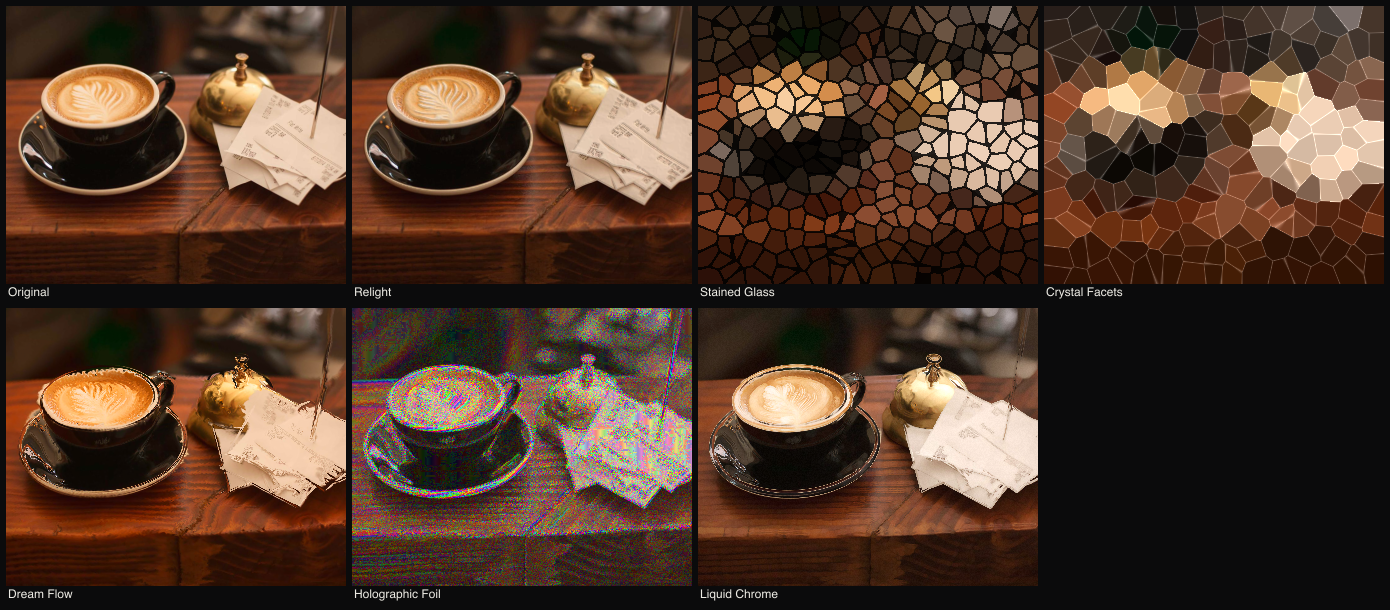
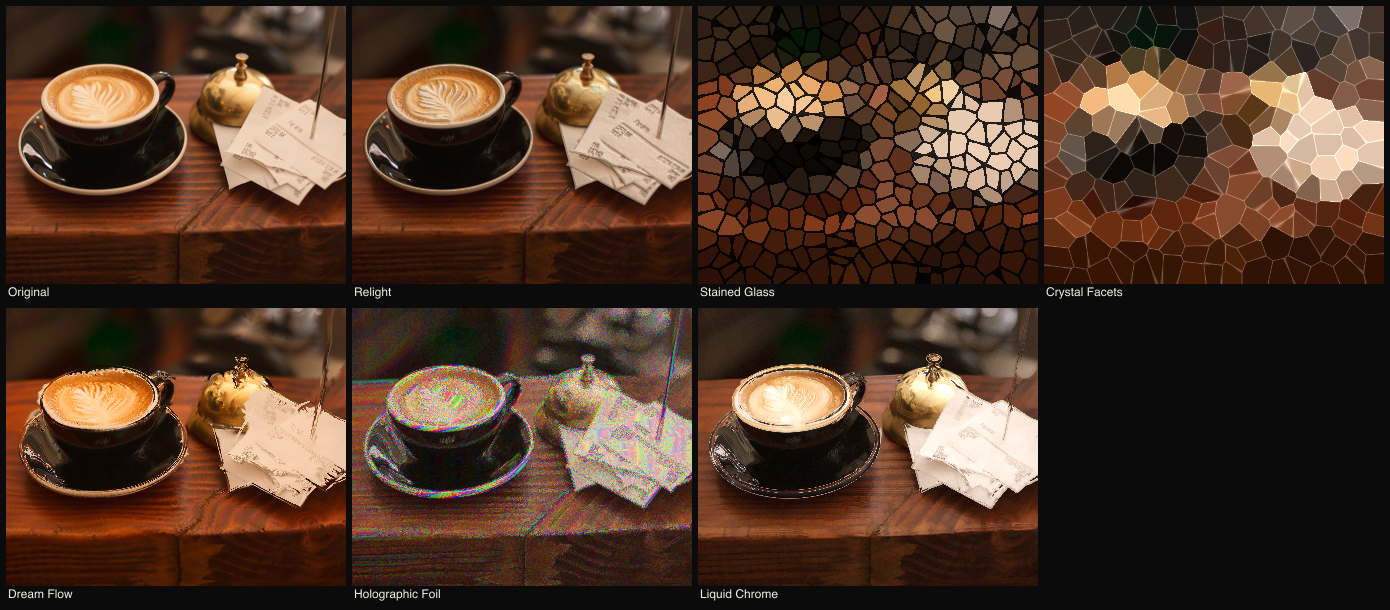
Tune honesty-pass effect defaults for usable out-of-the-box looks
- Holographic Foil: drop base sheen 0.15->0.06, blend 0.7->0.55, phase luminance
  term 6->2.5 so it's a contour-following foil sheen, not full-screen rainbow static
- Relight: default strength 0.4->0.65 (directional light now reads at default)
- Liquid Chrome: default intensity 0.5->0.7 (chrome sheen reads at default)
- 388 tests pass, tsc clean

diff --git a/src/lib/effects.ts b/src/lib/effects.ts
@@ -5664,7 +5664,7 @@ export const effectsConfig: Record<string, EffectConfig> = {
         label: 'Strength',
         min: 0,
         max: 1,
-        defaultValue: 0.4,
+        defaultValue: 0.65,
         step: 0.05,
         description: 'Intensity of the directional lighting effect.',
       },
@@ -8469,7 +8469,7 @@ export const effectsConfig: Record<string, EffectConfig> = {
         label: 'Intensity',
         min: 0,
         max: 1,
-        defaultValue: 0.5,
+        defaultValue: 0.7,
         step: 0.05,
         description: 'Strength of the metallic reflection effect',
       },
@@ -10456,7 +10456,7 @@ const createHolographicInterferenceEffect = (settings: Record<string, number>) =
           const l = lum[p];
 
           // Bands run along the contour direction; brightness drives the spectrum.
-          const phase = (x * Math.cos(gdir) + y * Math.sin(gdir)) * f + l * 6 + ps;
+          const phase = (x * Math.cos(gdir) + y * Math.sin(gdir)) * f + l * 2.5 + ps;
           let t = phase / (Math.PI * 2);
           t -= Math.floor(t);
           const h6 = t * 6;
@@ -10485,8 +10485,8 @@ const createHolographicInterferenceEffect = (settings: Record<string, number>) =
           }
 
           // Foil catches light on contours + highlights.
-          const sheen = clamp(0.15 + gmag * 5 + l * 0.4, 0, 1);
-          const blend = sheen * 0.7;
+          const sheen = clamp(0.06 + gmag * 5 + l * 0.4, 0, 1);
+          const blend = sheen * 0.55;
           data[idx] = clampByte(src[idx] * (1 - blend) + cr * 255 * blend);
           data[idx + 1] = clampByte(src[idx + 1] * (1 - blend) + cg * 255 * blend);
           data[idx + 2] = clampByte(src[idx + 2] * (1 - blend) + cb * 255 * blend);